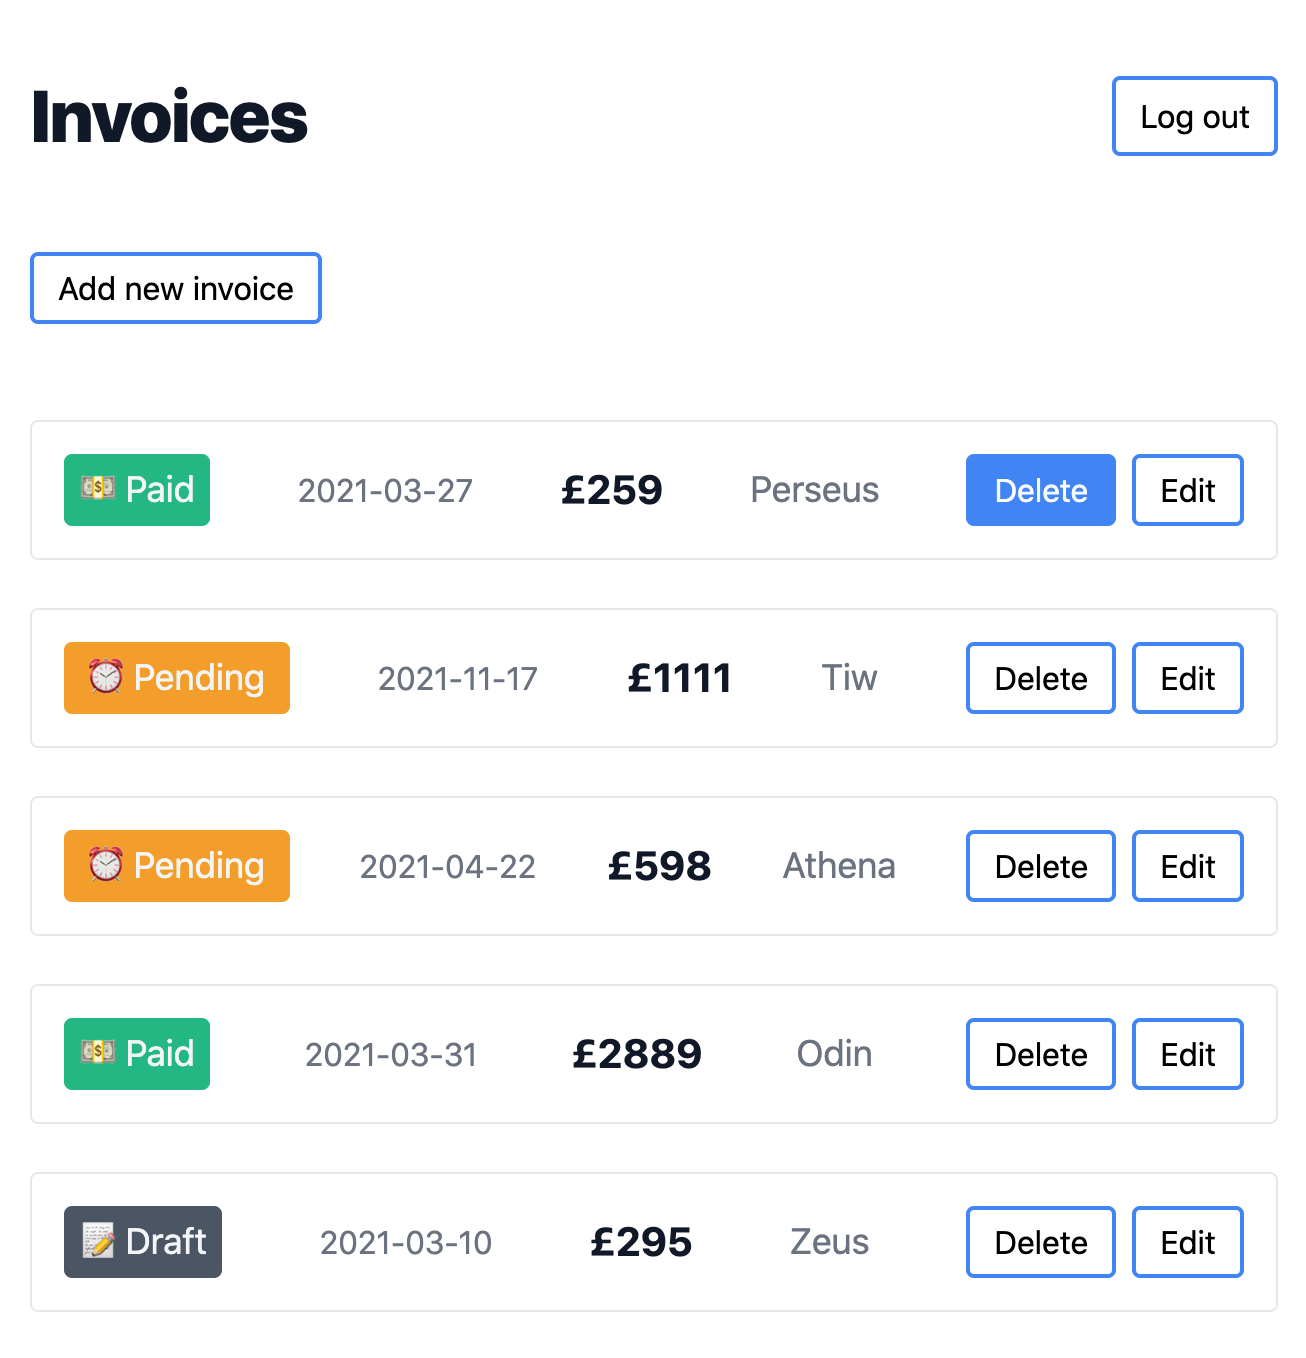
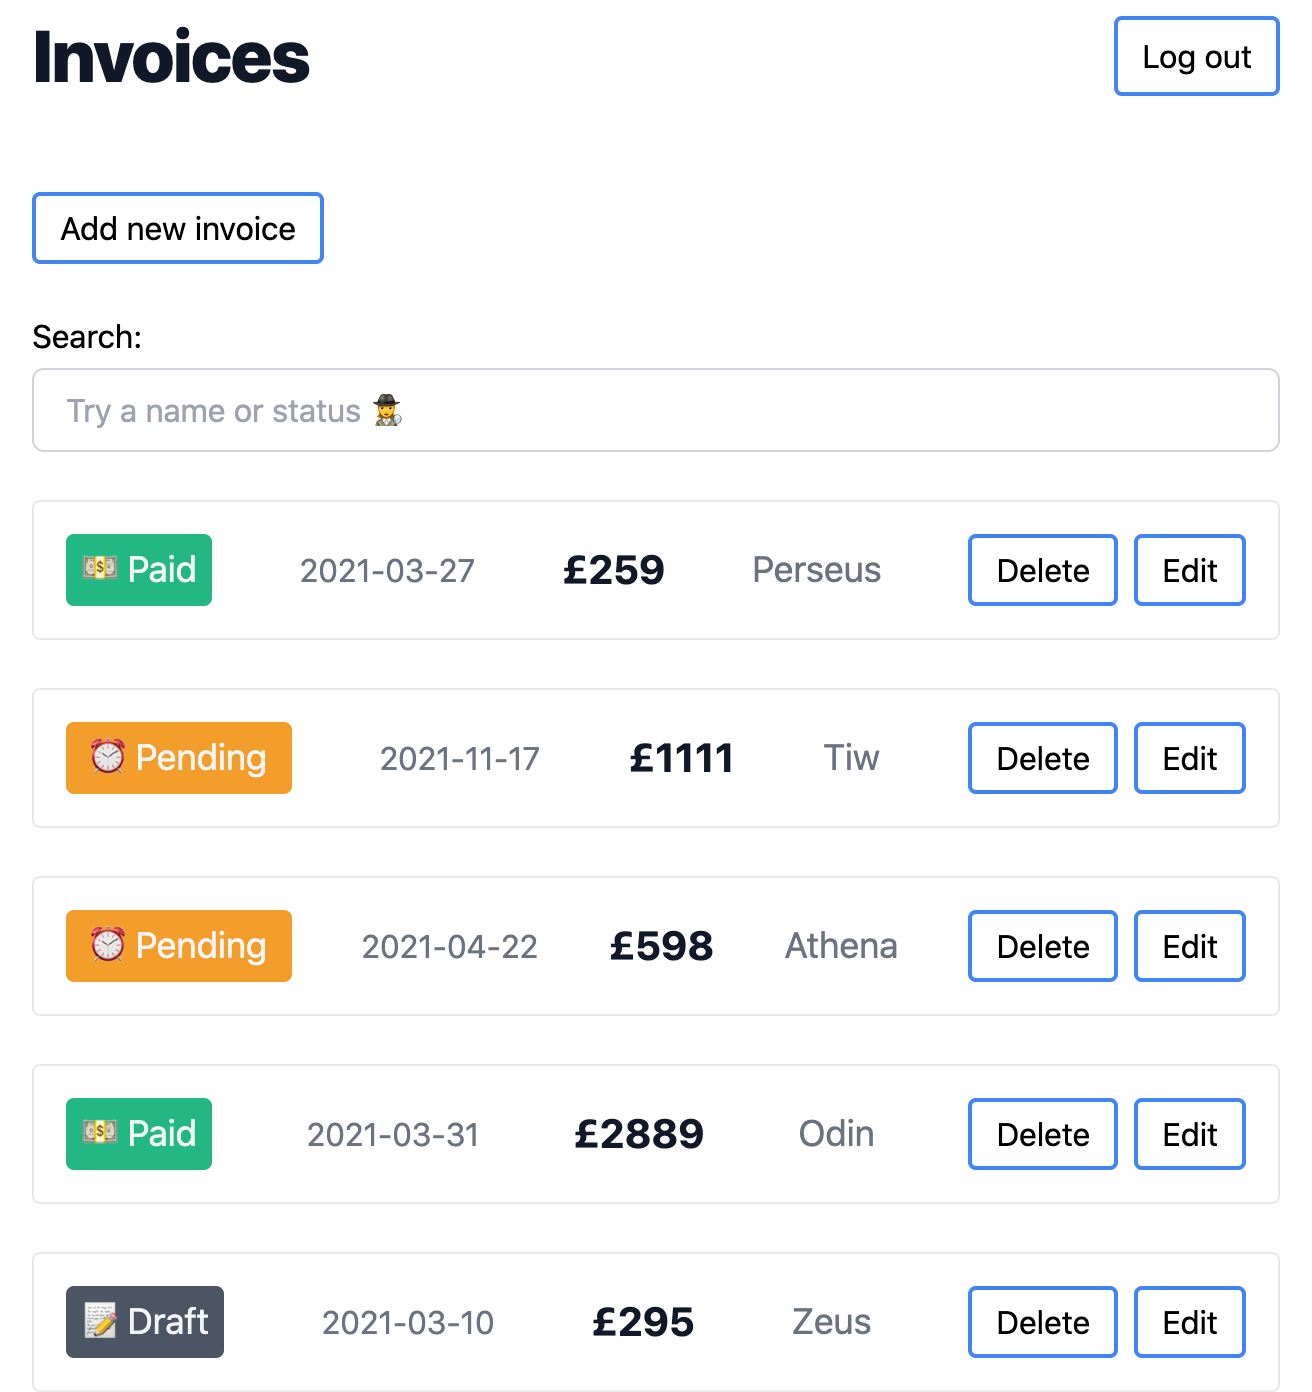
Filtering logic

diff --git a/client/src/pages/Home.js b/client/src/pages/Home.js
@@ -83,6 +83,15 @@ export const Home = () => {
     invoices &&
     invoices.sort((a, b) => new Date(b.createdAt) - new Date(a.createdAt));
 
+  const filteredInvoices =
+    sortedInvoices &&
+    sortedInvoices.filter(
+      invoice =>
+        invoice.status.toLowerCase().includes(searched) ||
+        invoice.name.toLowerCase().includes(searched) ||
+        invoice.dueDate.includes(searched)
+    );
+
   return (
     <div>
       {!invoiceEditorOpen && user && (
@@ -115,17 +124,17 @@ export const Home = () => {
           />
         </>
       )}
-      {invoices && invoices.length > 0 && sortedInvoices && (
+      {invoices && invoices.length > 0 && filteredInvoices && (
         <>
           <label htmlFor='search'>Search:</label>
           <input
             id='search'
-            // onChange={e => setLoginEmail(e.target.value)}
+            onChange={e => setSearched(e.target.value)}
             type='text'
             placeholder='Try a name or status 🕵♀'
           />
           <ul>
-            {sortedInvoices.map(invoice => (
+            {filteredInvoices.map(invoice => (
               <Invoice
                 key={invoice._id}
                 id={invoice._id}
@@ -150,7 +159,7 @@ export const Home = () => {
               <Link to='/register'>Register here</Link>
             </p>
           </div>
-          <img src='/screen.png' />
+          {/* <img src='/screen.png' alt='Screen shot of Invoices' /> */}
         </>
       )}
     </div>

diff --git a/client/src/components/ErrorMessage.js b/client/src/components/ErrorMessage.js
@@ -2,7 +2,7 @@ import React from 'react';
 
 export const ErrorMessage = ({ message, clear }) => {
   return (
-    <div className='border-red-400 border-2 p-2 px-3 rounded flex justify-between items-center my-6'>
+    <div className='border-red-400 border-2 bg-red-200 p-2 px-3 rounded flex justify-between items-center my-6'>
       <h3 className='font-bold text-lg text-gray-900  '>{message} 🚨</h3>
       <button onClick={clear}>Clear</button>
     </div>

diff --git a/client/src/components/EditorForm.js b/client/src/components/EditorForm.js
@@ -48,7 +48,7 @@ export const EditorForm = ({
           required
           id='editor-status'
           onChange={e => setEditorStatus(e.target.value)}>
-          <option value=''>Status</option>
+          <option value=''></option>
           <option value='draft'>Draft</option>
           <option value='pending'>Pending</option>
           <option value='paid'>Paid</option>
